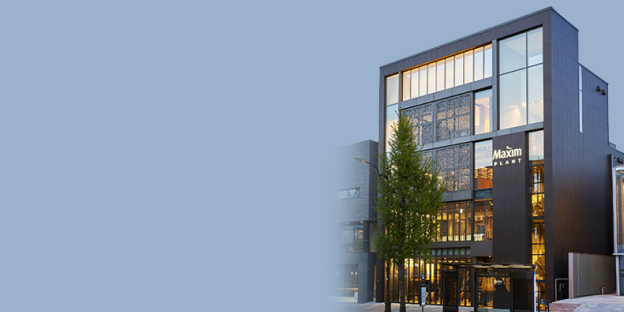
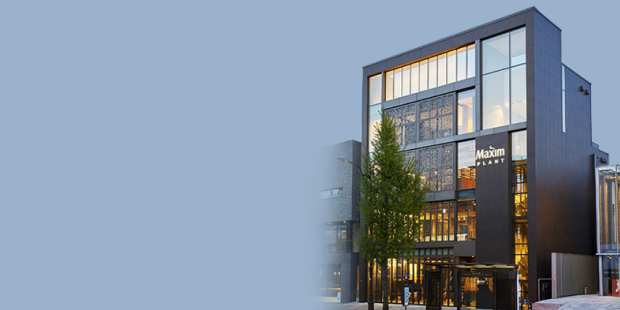
company

Changed region(s): [[0.521, 0.0, 1.0, 1.0]]

diff --git a/04company/css/style.css b/04company/css/style.css
@@ -63,8 +63,11 @@ html,body{height: 100%;}
 .sliderWrap_02 .bx-wrapper .bx-pager.bx-default-pager a.active{background: none;border: 2px solid #b3b3b3;}
 .sliderWrap_02 .bx-wrapper .bx-pager.bx-default-pager a{background: #b3b3b3;}
 
-.content>ul>li:nth-child(5){width: 50%;background-image: url(../images/sec1_05.jpg);position: relative;}
-.content>ul>li:nth-child(5) img{position: absolute;top: 56px;left: 28px;}
+.content>ul>li:nth-child(5){
+    width: 50%;background-image: url(../images/sec1_05.jpg);
+    position: relative;background-repeat: no-repeat;
+}
+.content>ul>li:nth-child(5) img{position: absolute;top: 82px;left: 36px;}
 
 .content>ul>li:nth-child(7){position: absolute;bottom: 0;right: 620px;}
 .slider_04>li{height: 310px;}
@@ -111,10 +114,11 @@ html,body{height: 100%;}
 
 .sec_03{padding: 60px 0;}
 .sec_03>.container{height: 620px;width: 1240px;margin: 0 auto;background: yellow;}
-.sec_03>.container li{width: 25%;height: 310px;float: left;background: orange;}
-.sec_03>.container li:nth-child(2n+1){background-color: #DDBDA4;}
+.sec_03>.container li{width: 25%;height: 310px;float: left;background: orange;cursor: pointer;}
+.sec_03>.container li:nth-child(2n+1){background-color: #DDBDA4;position: relative;}
 .sec_03>.container li:nth-child(2n){background-color: #F4F1E6;}
 .sec_03>.container li:first-child{height: 620px;background-color: #F8E0C6;}
+.sec_03>.container li:nth-child(2n+1) img{width: 60%;position: absolute;left: 50%;top: 50%;transform: translate(-50%,-50%);}
 
 
 
@@ -384,10 +388,13 @@ html,body{height: 100%;}
 
     .content>ul>li:nth-child(5){
         order:4;
+        background-image: url(../images/sec1_05_mo.jpg);
         background-repeat: no-repeat;
-        width: 100%;position: relative;
+        position: relative;
+        width: 100%;
+        background-size: 100%;
     }
-    .content>ul>li:nth-child(5)>img{position: absolute;top: 30px;left: 30px;}
+    .content>ul>li:nth-child(5) img{position: absolute;height: 70%;left: 42%;top: 46px;}
 
     .content>ul>li:nth-child(6){order:5;background-size: 100%;color: #333;}
     .content>ul>li:nth-child(6)>.icon{display: none;}
@@ -409,14 +416,39 @@ html,body{height: 100%;}
     .sliderWrap_03 .bx-wrapper .bx-pager.bx-default-pager a{background: #b3b3b3;}
     .sliderWrap_03 .bx-clone {display: none;}
 
-    .content>ul>li:nth-child(7){order:6;width: 100%;height: 210px;}
+    .content>ul>li:nth-child(7){order:6;width: 100%;height: 210px;background: skyblue;}
     .content>ul>li:nth-child(8){display: none;}
 
     /* section  */
+    .sec_02{padding: 25px 0;}
     .sec_02 .container{width: 100%;padding: 0 20px;}
-    .sec_02 .vision li{width: calc((100% - 20px) / 2);margin-bottom: 20px;height: 280px;}
-    .sec_02 .vision li:nth-child(2n){margin-right: 0;}
+    .sec_02 .vision li{width: 200px;margin-bottom: 20px;height: 200px;padding: 20px;margin-right: 30px;margin-left: 10px;}
+    .sec_02 .vision li:nth-child(2n){margin-right: 0;margin-left: 0;}
     .sec_02 .cardBody>p{display: none;}
+
+    .sec_03{padding: 0;}
+    .sec_03>ul{
+        display: flex;
+        flex-wrap: wrap;
+    }
+    .sec_03 .container{width: 100%;}
+    .sec_03 .container li{width: 50%;order: 7;}
+    .sec_03 .container li:first-child{
+        width: 100%;height: 100px;
+        position: relative;
+    }
+    .sec_03 .container li:first-child img{width: 50px;position: absolute;left: -30px;}
+    .sec_03 .container li:first-child p{display: none;}
+    .sec_03 .container li:first-child .txt{position: absolute;left: 45%;top: 50%;transform: translateY(-50%);}
+    .sec_03 .container li:nth-child(2) img,.sec_03 .container li:nth-child(4) img,
+    .sec_03 .container li:nth-child(6) img{width: 100%;height: 310px;}
+    .sec_03 .container li:nth-child(1){order: 1;}
+    .sec_03 .container li:nth-child(2){order: 2;}
+    .sec_03 .container li:nth-child(3){order: 4;}
+    .sec_03 .container li:nth-child(4){order: 6;}
+    .sec_03 .container li:nth-child(5){order: 3;}
+    .sec_03 .container li:nth-child(6){order: 5;}
+    .sec_03 .container li:nth-child(7){order: 7;}
 
 }
 /* mobile media  */

diff --git a/04company/index.html b/04company/index.html
@@ -32,7 +32,7 @@
                         <li><a href="#">고객의 소리</a></li>
                     </ul>
                     <div class="lan clearfix">
-                        <h3 class="active"><a href="kor_index.html">KOR</a></h3>
+                        <h3 class="active"><a href="index.html">KOR</a></h3>
                         <h3><a href="#">ENG</a></h3>
                     </div>
                 </div>
@@ -330,13 +330,19 @@
     </div>
     <div class="sec_03">
         <ul class="container clearfix">
-            <li></li>
-            <li></li>
-            <li></li>
-            <li></li>
-            <li></li>
-            <li></li>
-            <li></li>
+            <li onclick="location.href=''">
+                <div class="txt">
+                    <img src="images/sec3_icon.png" alt="">
+                    <h3>NEW PRODUCT</h3>
+                    <p>늘 고객을<br>최우선으로 생각하고<br>여러분의 삶에<br>향기를 가져다 드리는<br>식품회사가 되도록<br>노력하겠습니다.</p>
+                </div>
+            </li>
+            <li onclick="location.href=''"><img src="images/sec3_02.jpg" alt=""></li>
+            <li onclick="location.href=''"><img src="images/img_top.png" alt=""></li>
+            <li onclick="location.href=''"><img src="images/sec3_04.jpg" alt=""></li>
+            <li onclick="location.href=''"><img src="images/img_maxim.png" alt=""></li>
+            <li onclick="location.href=''"><img src="images/sec3_06.jpg" alt=""></li>
+            <li onclick="location.href=''"><img src="images/img_starbucks.png" alt=""></li>
         </ul>
     </div>
 </body>

diff --git a/04company/js/script.js b/04company/js/script.js
@@ -1,3 +1,16 @@
+$(window).scroll(function(){
+    win_scr = $(window).scrollTop();
+    if(win_scr<50){
+        $('#headerTop').css({background:'none'})
+        $('#headerTop a').css({color:'#fff'})
+    }
+    else{
+        $('#headerTop').css({background:'rgba(255,255,255,0.6)',transition:'0.3s',});
+        $('#headerTop a').css({color:'#333'});
+    }
+    
+})
+
 $(document).ready(function(){
     const visual_01 = $('.slider').bxSlider({
         controls:false,
